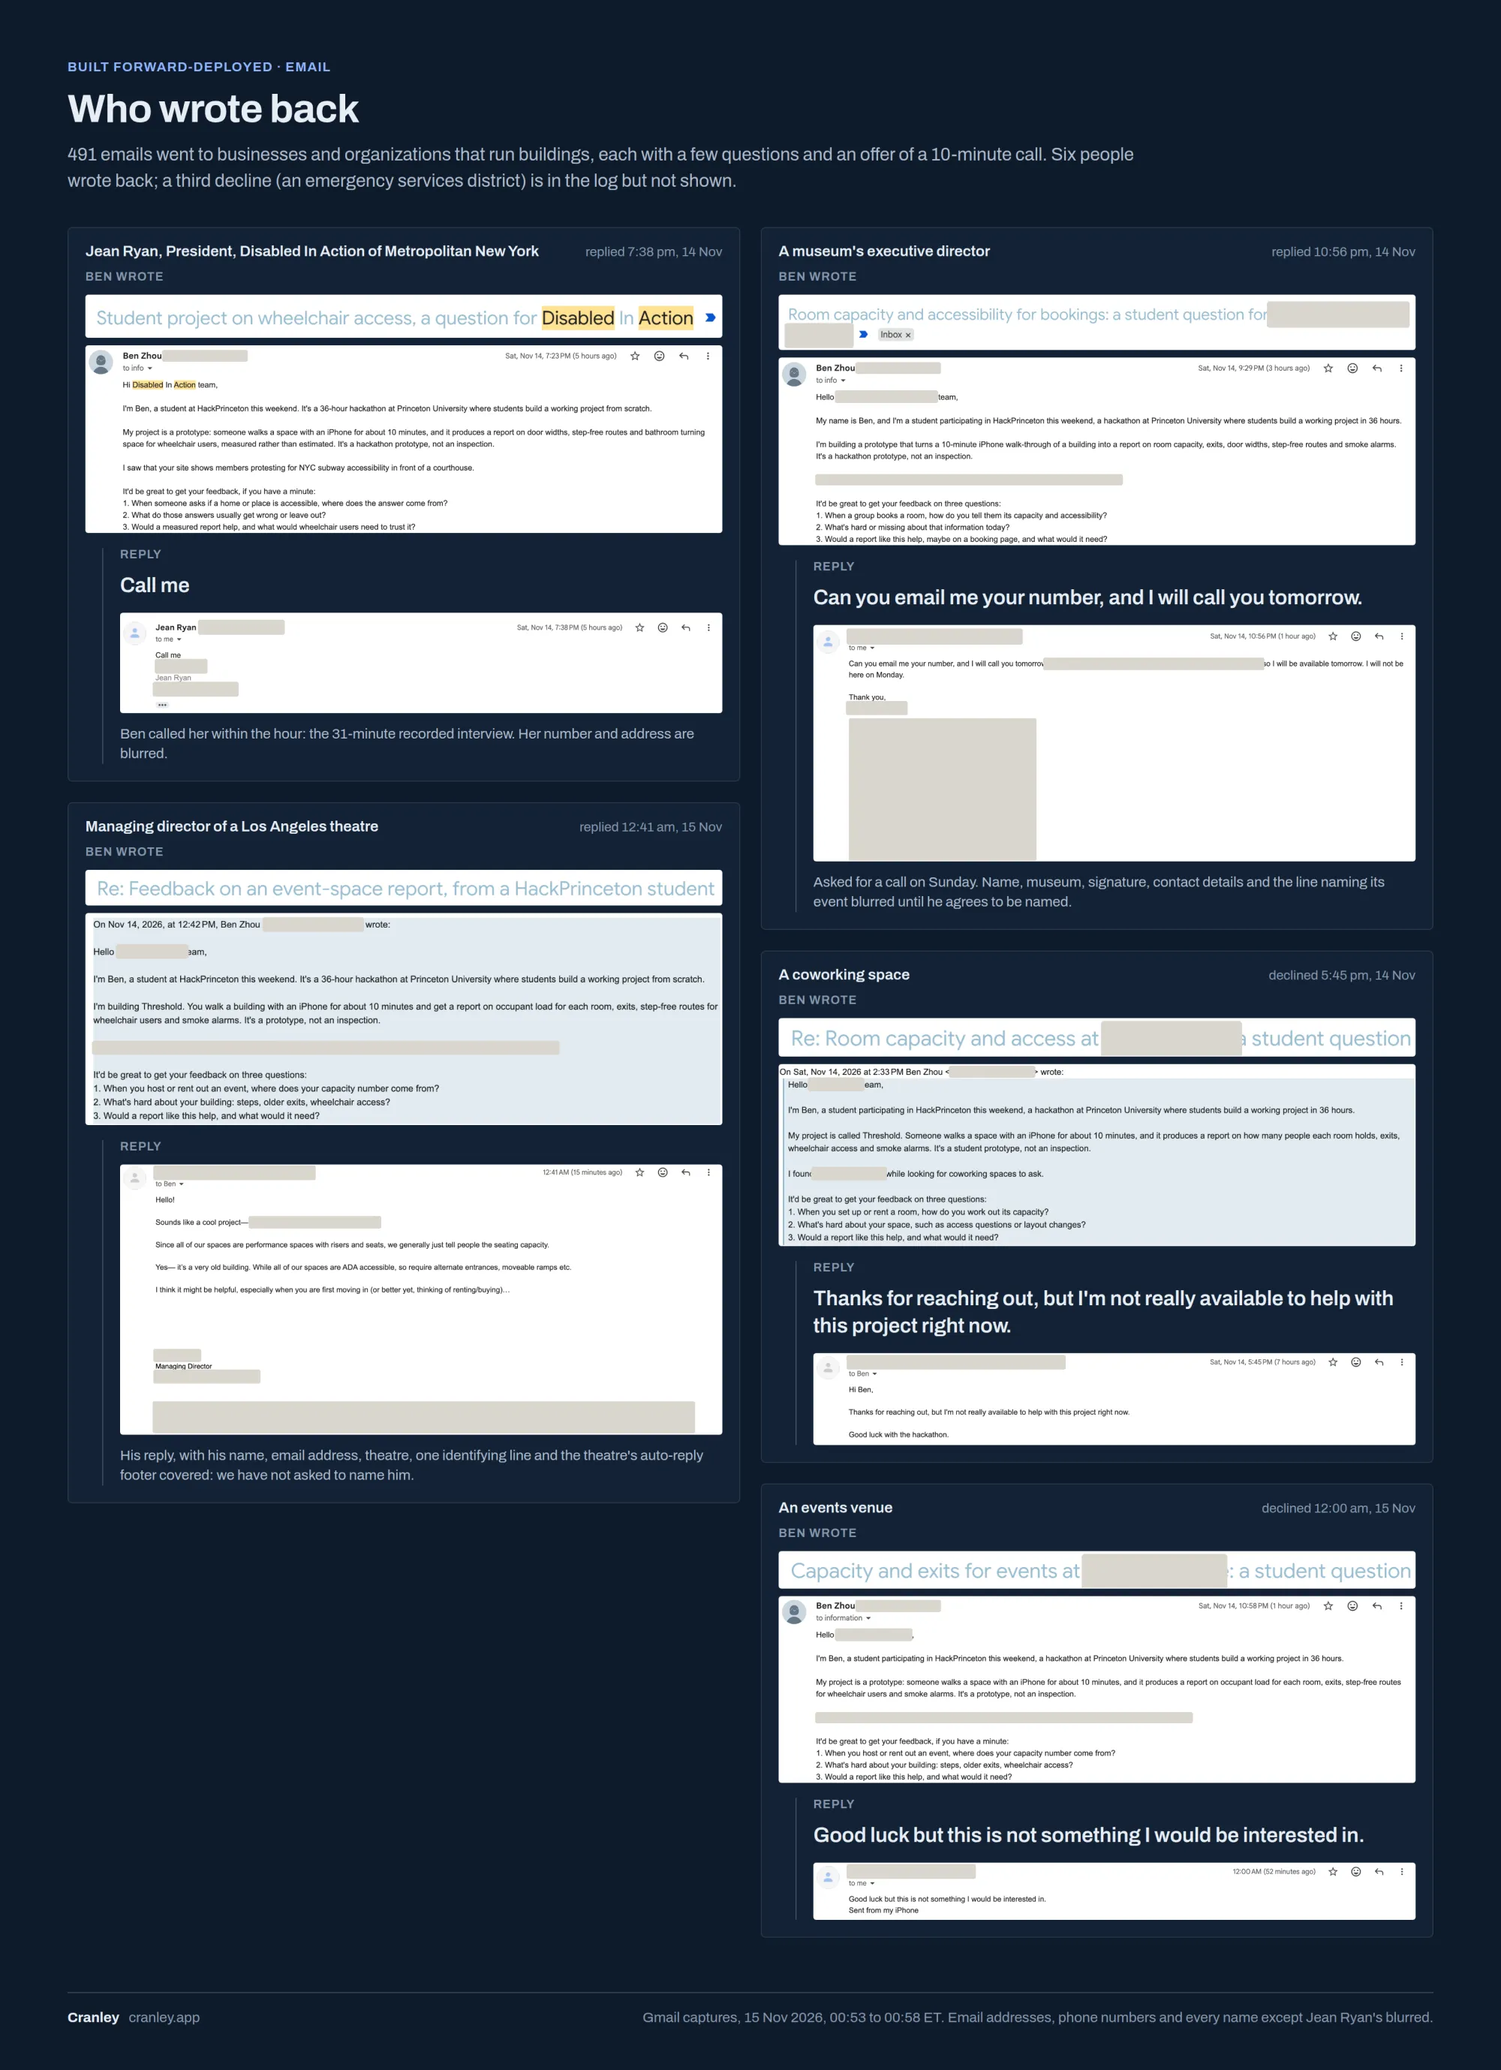
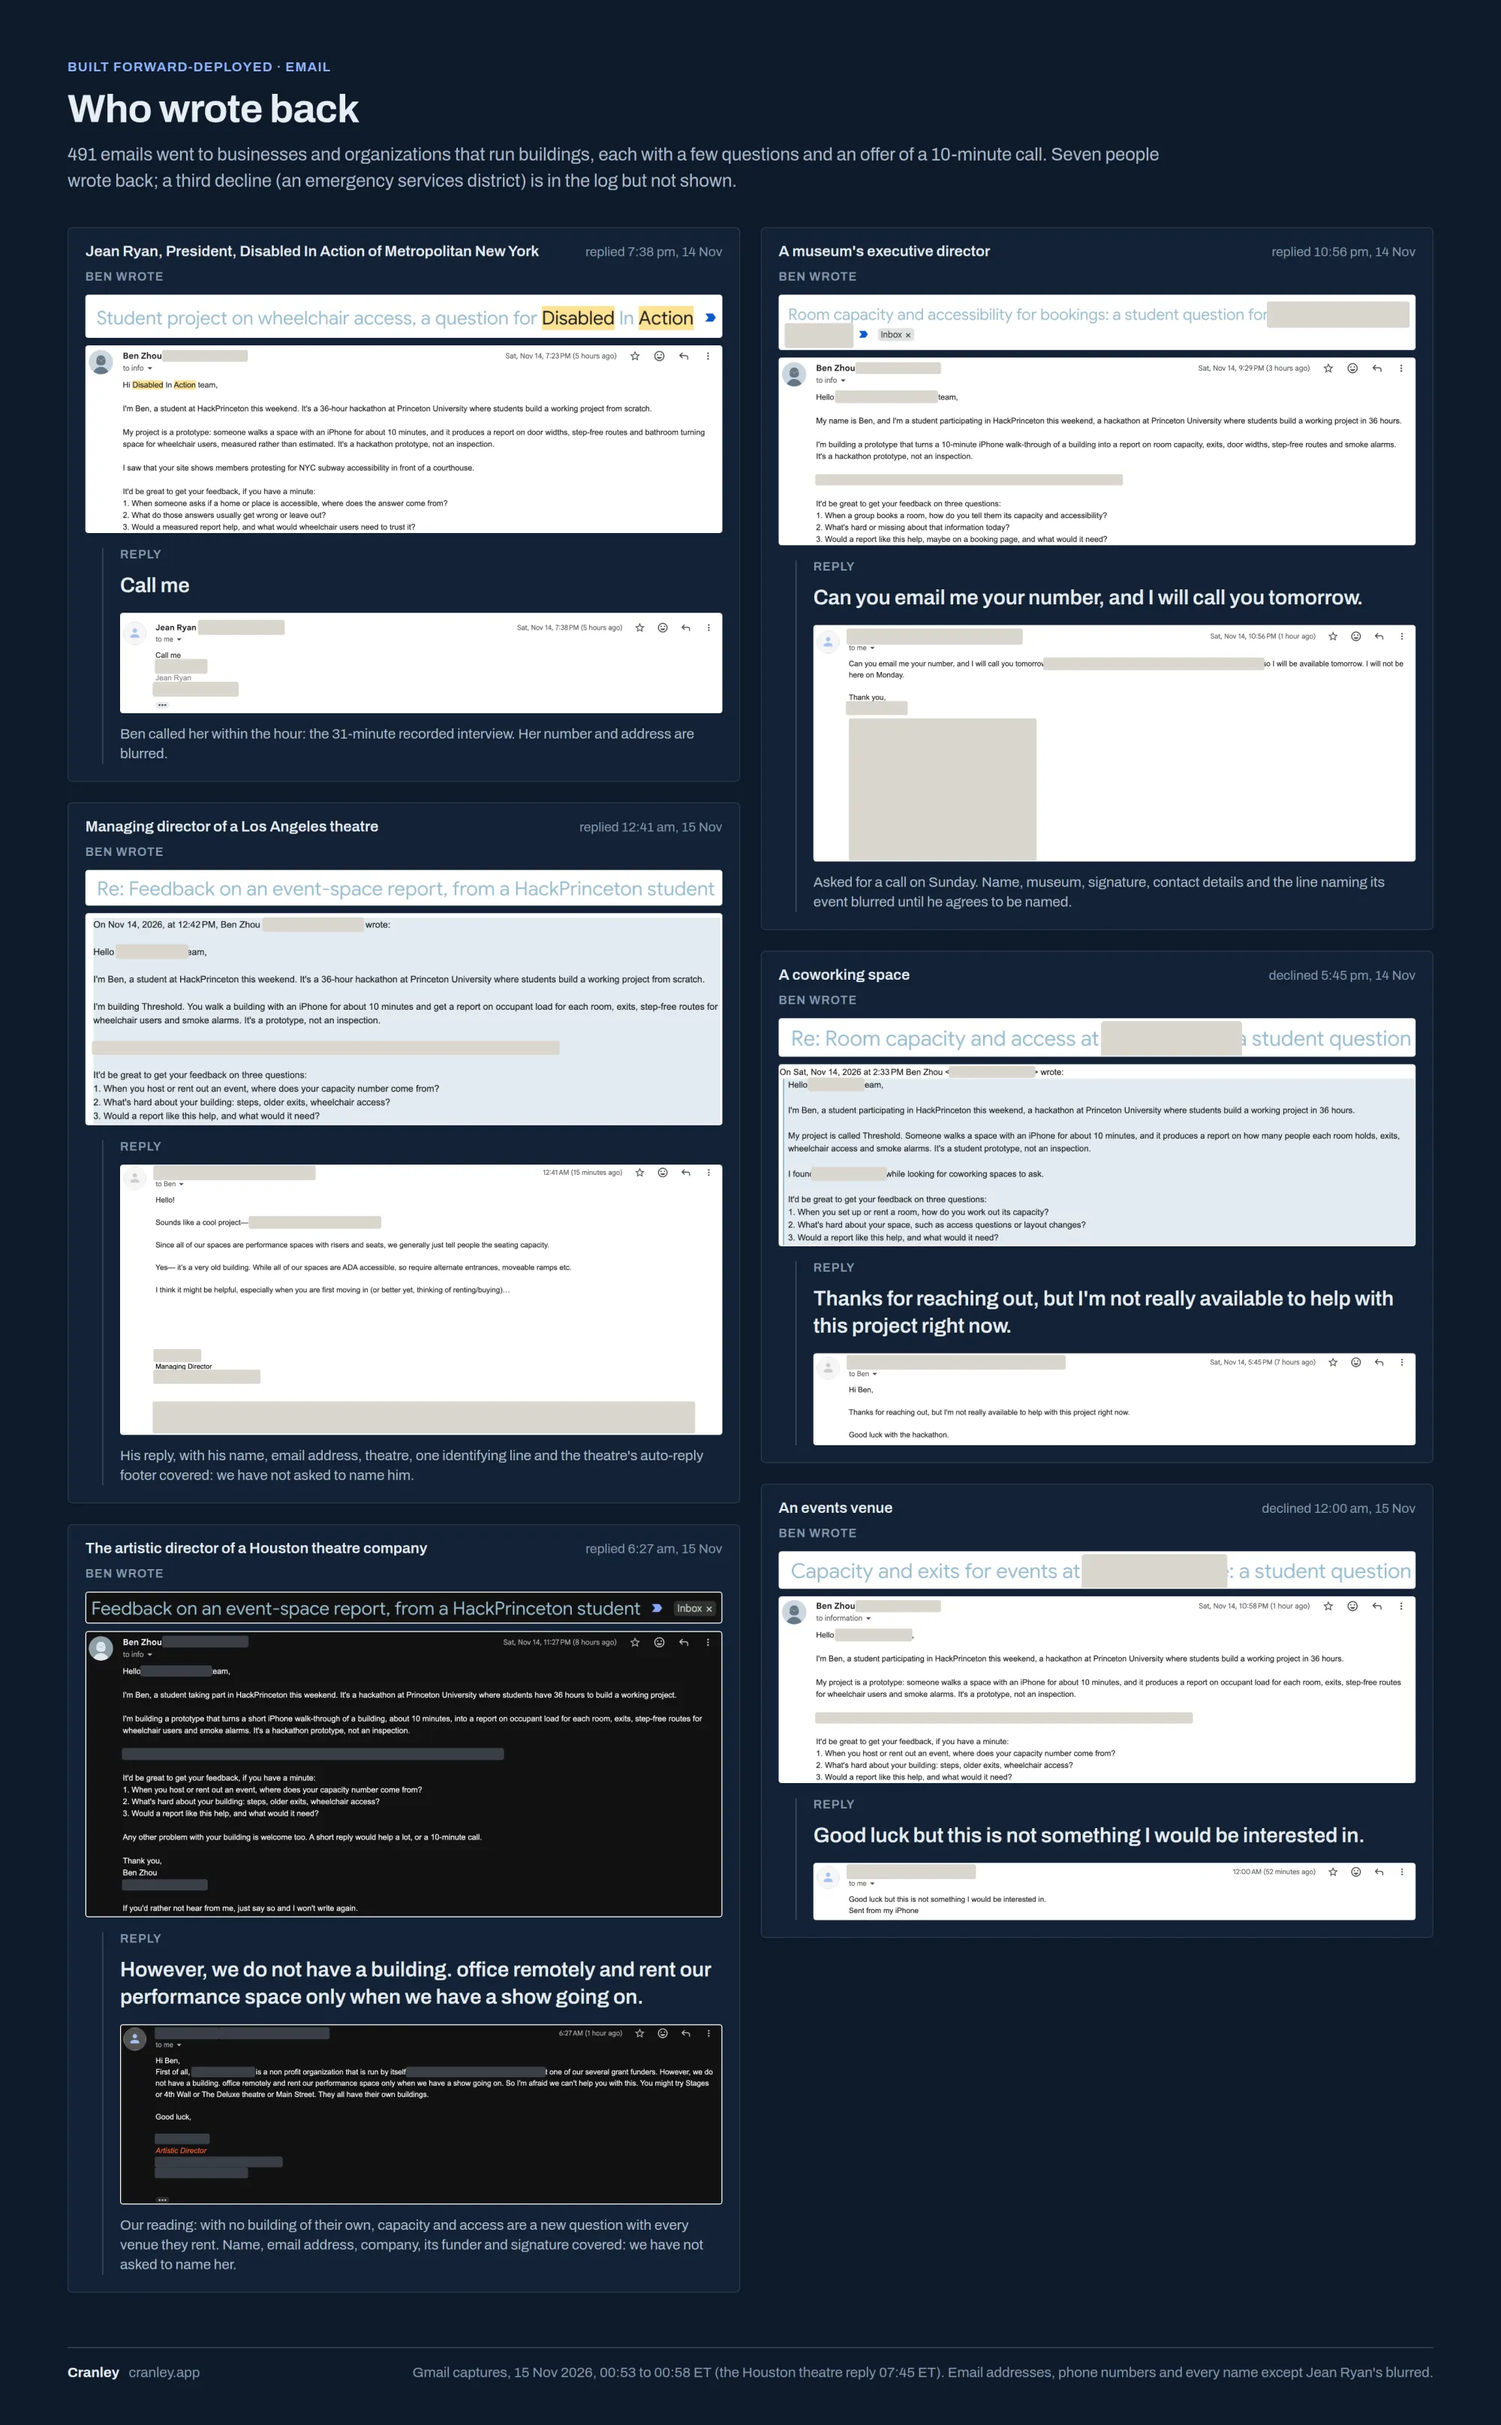
Site: the email replies card is the refreshed dark render, with the Houston theatre company's artistic director and seven replies

diff --git a/site/src/site/proof.ts b/site/src/site/proof.ts
@@ -19,8 +19,8 @@ export const PROOF = {
   'reddit-wall-2-workplaces': { w: 2000, h: 1937,
     alt: 'Our questions in five Reddit communities for people who run stores, kitchens, restaurants, teams and emergency plans, with six of the answers',
     caption: `What we asked in five Reddit communities for people who run workplaces, and six of the answers. ${BLURRED}` },
-  'email-replies': { w: 2000, h: 2758,
-    alt: 'The emails we sent and what came back: "Call me" from Jean Ryan, a museum director asking for a call, written answers from a theatre\'s managing director, and two declines',
+  'email-replies': { w: 2000, h: 3230,
+    alt: 'The emails we sent and what came back: "Call me" from Jean Ryan, a museum director asking for a call, written answers from the managing director of a Los Angeles theatre and the artistic director of a Houston theatre company, and two declines',
     caption: 'The email we sent and each reply to it. Names, email addresses, signatures and the names of the organisations are covered, except Jean Ryan.' },
   'outreach-at-a-glance': { w: 2000, h: 1328,
     alt: 'The outreach in numbers: the recorded interview, the people and communities who answered, the emails sent, the replies and the commits that followed',
